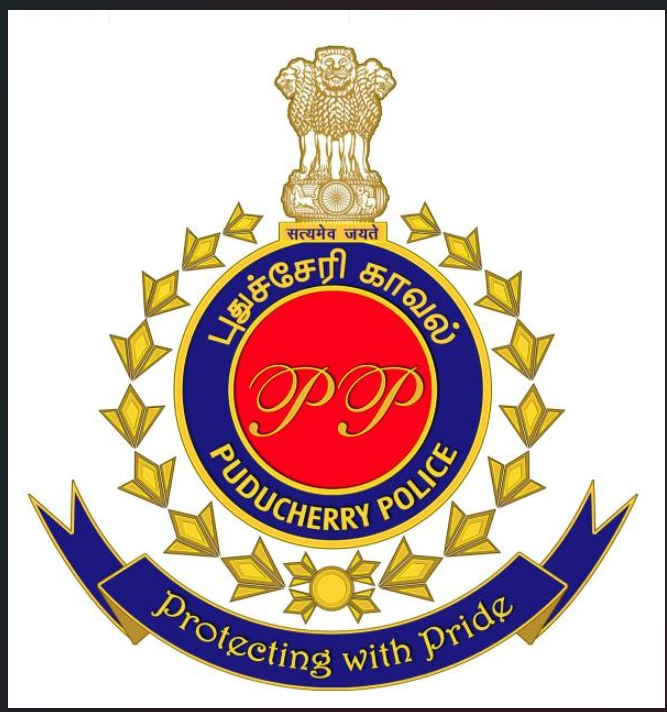
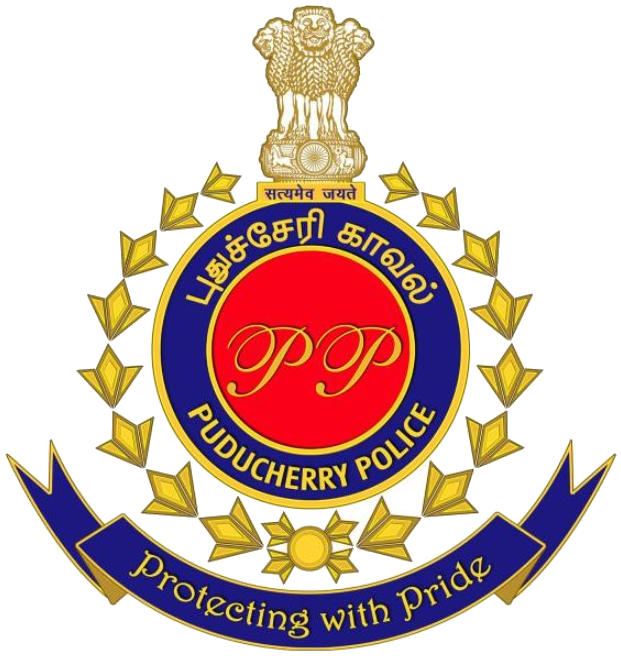
fix: remove white background and square border from police emblem, make transparent cutout

diff --git a/App.tsx b/App.tsx
@@ -229,25 +229,15 @@ const styles = StyleSheet.create({
     width: '100%',
   },
   splashEmblemCircle: {
-    width: 140,
-    height: 140,
-    borderRadius: 70,
-    backgroundColor: '#0A1931',
+    width: 150,
+    height: 160,
     justifyContent: 'center',
     alignItems: 'center',
-    borderWidth: 3,
-    borderColor: '#F59E0B',
-    shadowColor: '#000',
-    shadowOffset: { width: 0, height: 6 },
-    shadowOpacity: 0.5,
-    shadowRadius: 10,
-    elevation: 10,
-    marginBottom: 20,
-    overflow: 'hidden',
+    marginBottom: 16,
   },
   splashLogo: {
-    width: 130,
-    height: 130,
+    width: 150,
+    height: 160,
   },
   splashTamilTitle: {
     fontSize: 18,

diff --git a/src/components/common/Header.tsx b/src/components/common/Header.tsx
@@ -118,25 +118,15 @@ const styles = StyleSheet.create({
     flex: 1,
   },
   emblemContainer: {
-    width: 44,
-    height: 44,
-    borderRadius: 22,
-    backgroundColor: '#0F1E36',
+    width: 46,
+    height: 46,
     alignItems: 'center',
     justifyContent: 'center',
     marginRight: 12,
-    borderWidth: 2,
-    borderColor: Colors.policeGold,
-    shadowColor: Colors.policeNavy,
-    shadowOffset: { width: 0, height: 2 },
-    shadowOpacity: 0.5,
-    shadowRadius: 4,
-    elevation: 4,
-    overflow: 'hidden',
   },
   emblemImage: {
-    width: 40,
-    height: 40,
+    width: 46,
+    height: 46,
   },
   titleColumn: {
     flex: 1,

diff --git a/src/screens/parking/FindParkingScreen.tsx b/src/screens/parking/FindParkingScreen.tsx
@@ -857,9 +857,9 @@ const styles = StyleSheet.create({
     marginBottom: 10,
   },
   bannerLogo: {
-    width: 38,
-    height: 38,
-    marginRight: 10,
+    width: 44,
+    height: 46,
+    marginRight: 12,
   },
   commandTextCol: {
     flex: 1,
